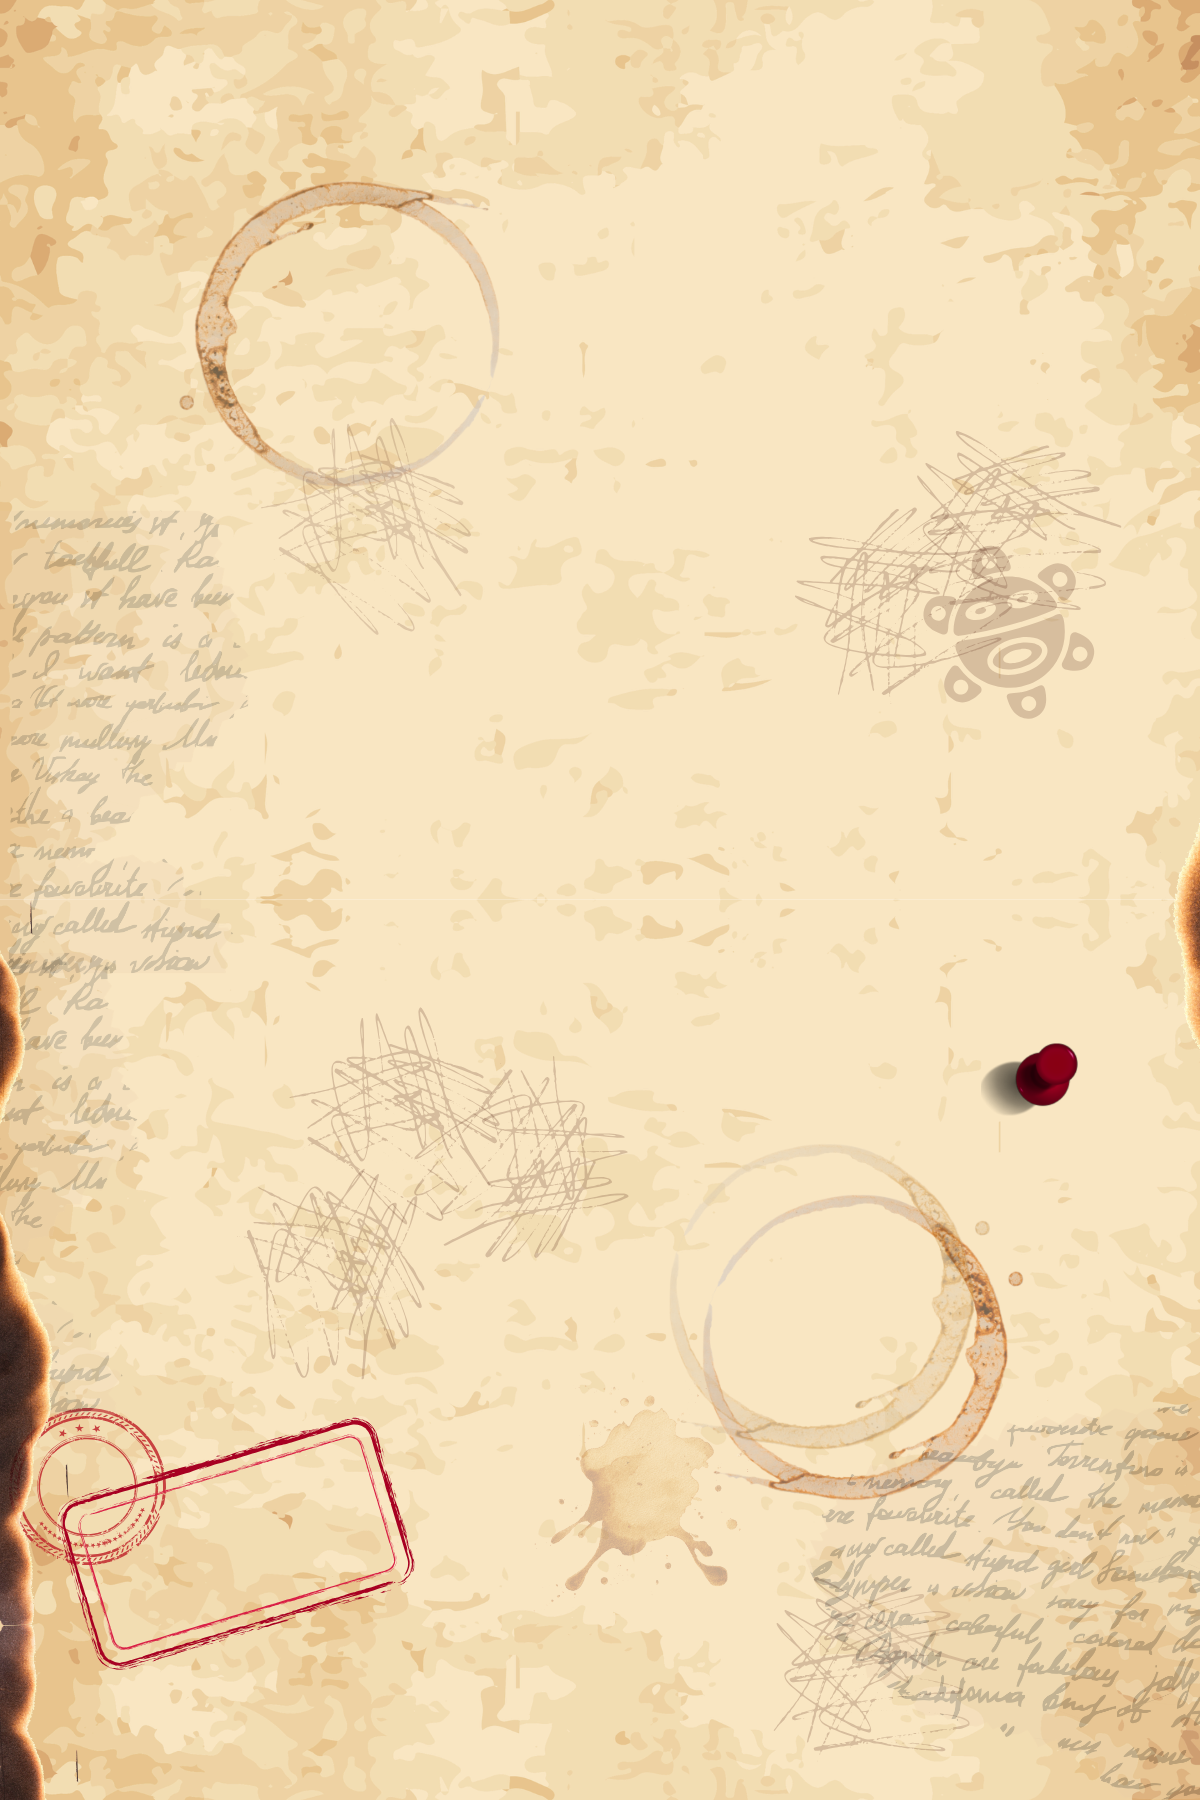
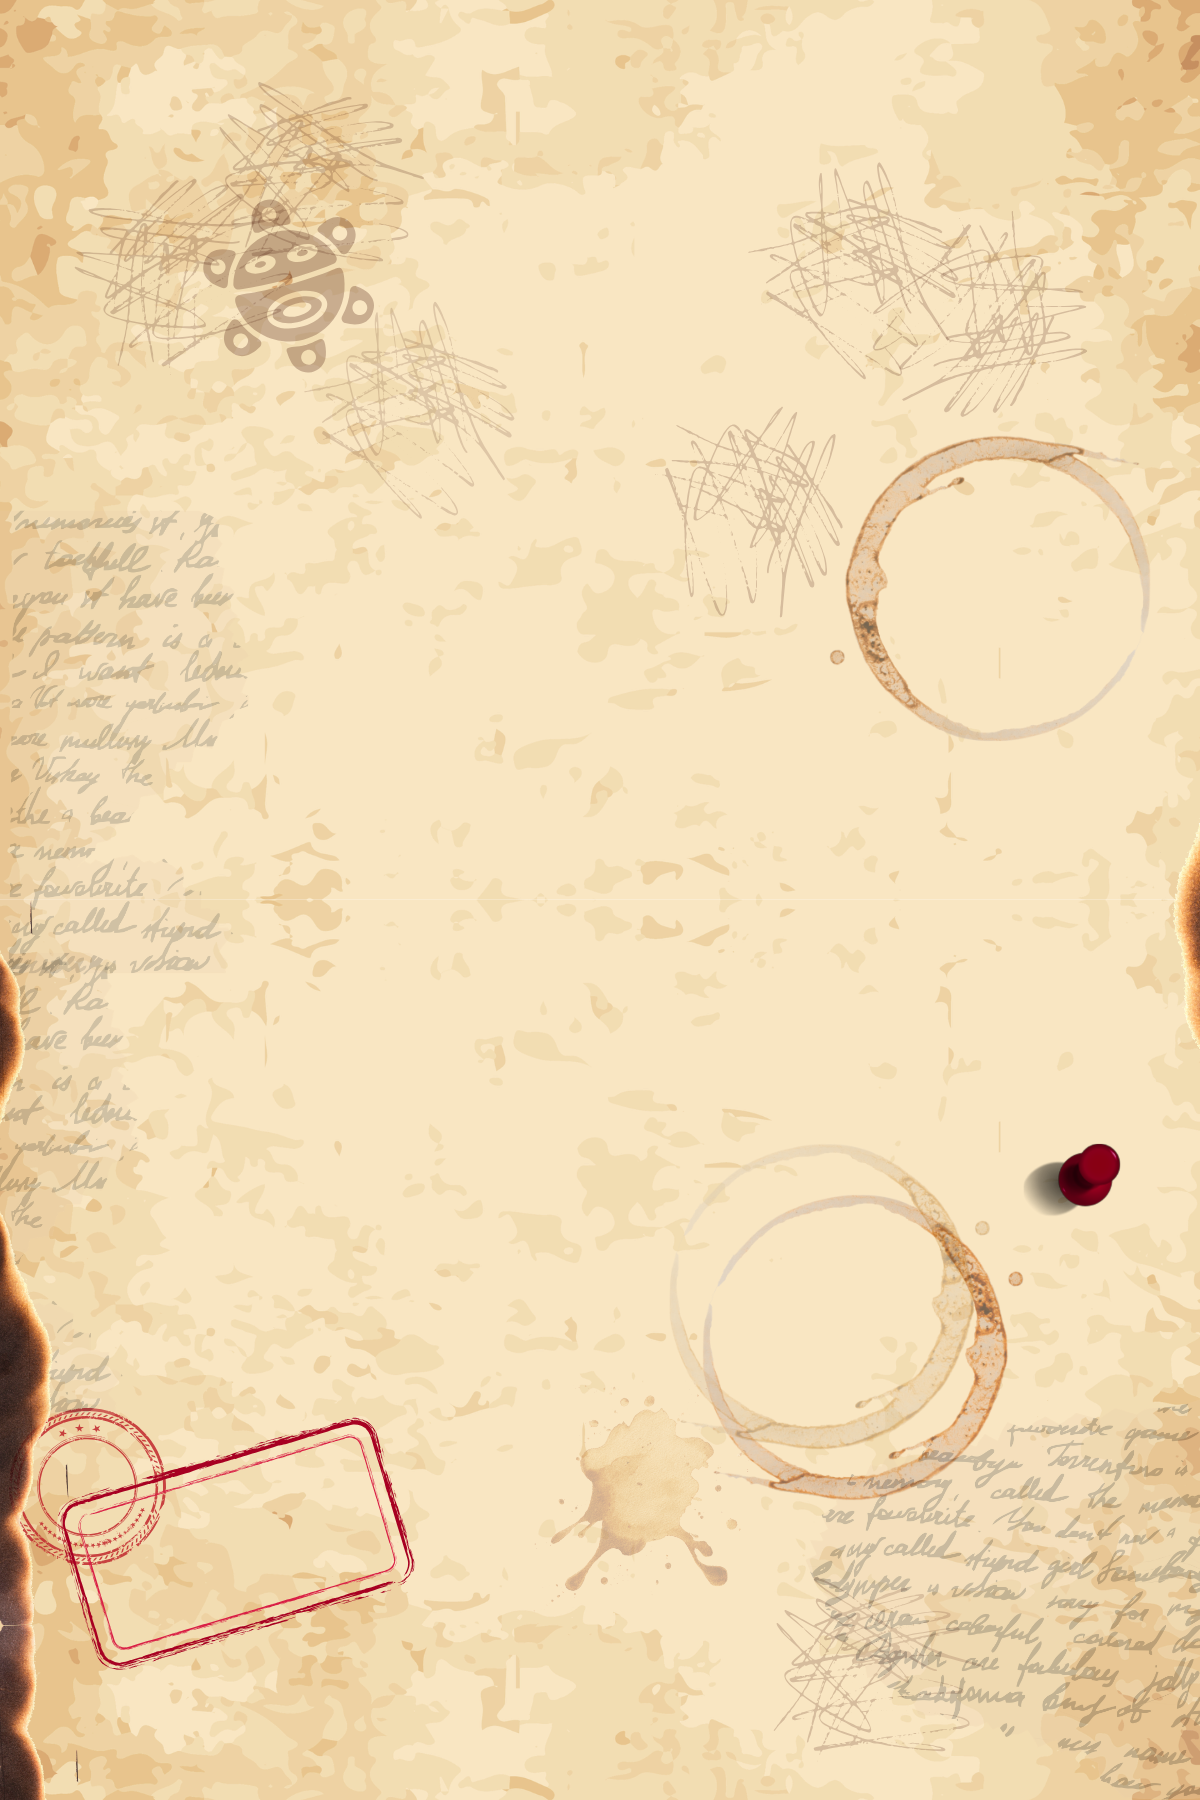
Completed base of MotivationSection in About page. Moving onto other pages on the landing site.

diff --git a/src/features/landing/about/components/MotivationSection.jsx b/src/features/landing/about/components/MotivationSection.jsx
@@ -1,4 +1,6 @@
+import Card from "../../../../shared/components/layout/Card";
 import Row from "../../../../shared/components/layout/Row";
+import Image from "../../../../shared/components/ui/Image";
 
 const sectionItems = [
   {
@@ -26,9 +28,24 @@ const sectionItems = [
 export default function MotivationSection() {
   return (
     <Row>
-      {sectionItems.map((section) => (
-        <Row key={section.id}>{section.content}</Row>
-      ))}
+      <Card $cardColor="var(--color-light-0)" $gap="var(--gap-md)">
+        <Row>{sectionItems[0].content} </Row>
+        <Row>{sectionItems[1].content}</Row>
+      </Card>
+
+      <Card $cardColor="var(--color-light-0)">
+        <Row $direction="horizontal" $gap="var(--gap-md)">
+          <Image src="src/assets/images/content/TEMP.png" $width="40%" />{" "}
+          {sectionItems[2].content}
+        </Row>
+      </Card>
+
+      <Card $cardColor="var(--color-light-0)">
+        {sectionItems[3].content}
+        <Row $align="center">
+          <Image src="src/assets/images/content/TEMP.png" $width="40%" />{" "}
+        </Row>
+      </Card>
     </Row>
   );
 }

diff --git a/src/features/landing/about/components/TechStackSection.jsx b/src/features/landing/about/components/TechStackSection.jsx
@@ -66,7 +66,7 @@ export default function TechStackSection() {
         {sectionItems[0].items.map((item) => (
           <Card
             key={item.id}
-            $cardColor="var(--color-light-200)"
+            $cardColor="var(--color-light-0)"
             $cardShadow="outsetSM"
             $gap="var(--gap-sm)"
             $align="center"
@@ -82,7 +82,7 @@ export default function TechStackSection() {
           <Heading as="h4" $color="var(--color-red-300)">
             {section.heading}
           </Heading>
-          <Card $cardColor="var(--color-light-200)">
+          <Card $cardColor="var(--color-light-0)">
             <Row $gap="var(--gap-md)">
               {section.items.map((item) => (
                 <Row

diff --git a/src/shared/components/layout/panel.styles.js b/src/shared/components/layout/panel.styles.js
@@ -19,8 +19,8 @@ export const StyledPanel = styled.div`
   background-repeat: repeat;  */
 
   background-image: ${({ $theme }) => $theme.panelBackground};
-  background-size: cover;
-  background-repeat: no-repeat;
+  background-size: auto;
+  background-repeat: repeat;
   /* background-position: center; */
   background-position: ${({ $index }) =>
     $index % 2 === 0 ? " bottom" : "top"};